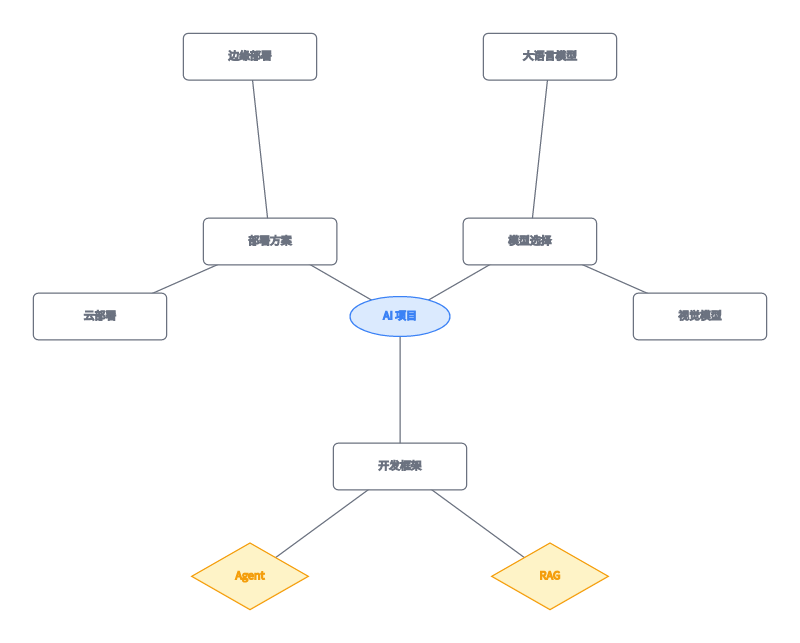
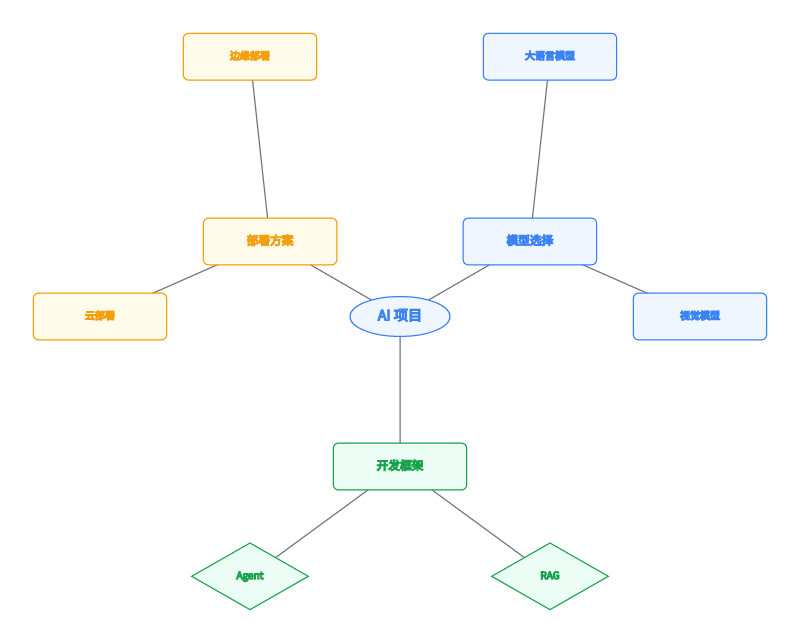
feat(render): mindmap branch colors + font hierarchy
- per top-level branch color (stroke + pastel fill), root uses brand blue
- font size by depth: root 17 > level1 14 > level2 12
- layout 'three-direction' radial is inherent to 3 even branches (120°);
  edge whitespace ~60-120px is normal margin
Verified by doubao vision model: branch colors and font hierarchy
confirmed; layout accepted as inherent to the 3-branch structure.

diff --git a/packages/render/src/index.ts b/packages/render/src/index.ts
@@ -159,6 +159,50 @@ const STROKE_BY_KIND: Record<string, string> = {
  * index) so different layers are visually distinguishable. */
 const GROUP_FILLS = ['#eff6ff', '#ecfdf5', '#fffbeb', '#faf5ff', '#f8fafc'];
 
+/** Mindmap branch palette (stroke + matching pastel fill per top branch). */
+const MIND_COLORS = ['#3b82f6', '#16a34a', '#f59e0b', '#8b5cf6', '#ec4899'];
+const MIND_FILLS = ['#eff6ff', '#ecfdf5', '#fffbeb', '#faf5ff', '#fce7f3'];
+
+/**
+ * For mindmaps: depth of every node (BFS from the root, the node with no
+ * incoming edges) and which top-level branch it belongs to (the root's
+ * direct children are branch heads).
+ */
+function computeMindmapInfo(
+  doc: LgdlDocument,
+): Map<string, { branch: string; branchIndex: number; depth: number }> {
+  const children = new Map<string, string[]>();
+  const inDegree = new Map<string, number>();
+  for (const n of doc.nodes) {
+    children.set(n.id, []);
+    inDegree.set(n.id, 0);
+  }
+  for (const e of doc.edges) {
+    children.get(e.from)?.push(e.to);
+    inDegree.set(e.to, (inDegree.get(e.to) ?? 0) + 1);
+  }
+  const rootId = doc.nodes.find((n) => (inDegree.get(n.id) ?? 0) === 0)?.id;
+  if (!rootId) return new Map();
+
+  const info = new Map<string, { branch: string; branchIndex: number; depth: number }>();
+  info.set(rootId, { branch: 'root', branchIndex: -1, depth: 0 });
+  let branchIndex = 0;
+  const queue: { id: string; branch: string; branchIndex: number; depth: number }[] = [
+    { id: rootId, branch: 'root', branchIndex: -1, depth: 0 },
+  ];
+  while (queue.length > 0) {
+    const cur = queue.shift()!;
+    for (const c of children.get(cur.id) ?? []) {
+      const isBranchHead = cur.branch === 'root';
+      const branch = isBranchHead ? c : cur.branch;
+      const idx = isBranchHead ? branchIndex++ : cur.branchIndex;
+      info.set(c, { branch, branchIndex: idx, depth: cur.depth + 1 });
+      queue.push({ id: c, branch, branchIndex: idx, depth: cur.depth + 1 });
+    }
+  }
+  return info;
+}
+
 /** Render an LGDL document + layout into an SVG string. */
 export function renderSvg(doc: LgdlDocument, layout: LayoutResult): string {
   switch (doc.type) {
@@ -173,6 +217,7 @@ export function renderSvg(doc: LgdlDocument, layout: LayoutResult): string {
     case 'er':
       return renderGeneral(doc, layout, 'er');
     case 'mindmap':
+      return renderGeneral(doc, layout, 'mindmap');
     case 'flowchart':
     case 'arch':
     case 'state':
@@ -228,8 +273,10 @@ function renderSequence(doc: LgdlDocument, layout: LayoutResult): string {
 }
 
 /** General renderer (flowchart/mindmap/arch/datastream), with optional class-node styling. */
-function renderGeneral(doc: LgdlDocument, layout: LayoutResult, mode: 'default' | 'uml-class' | 'datastream' | 'er'): string {
+function renderGeneral(doc: LgdlDocument, layout: LayoutResult, mode: 'default' | 'uml-class' | 'datastream' | 'er' | 'mindmap'): string {
   const parts: string[] = [];
+  // mindmap: per-branch colors + font hierarchy (root > level 1 > level 2)
+  const mindmapInfo = mode === 'mindmap' ? computeMindmapInfo(doc) : null;
 
   // defs: arrowhead markers (gray for node edges, purple for aggregate edges)
   parts.push(
@@ -449,12 +496,23 @@ function renderGeneral(doc: LgdlDocument, layout: LayoutResult, mode: 'default' 
     }
     const kind = lgdlNode.kind ?? 'process';
     const shape = SHAPES[kind] ?? SHAPES.process;
-    const fill = FILL_BY_KIND[kind] ?? FILL_BY_KIND.process;
-    const stroke = STROKE_BY_KIND[kind] ?? STROKE_BY_KIND.process;
+    let fill = FILL_BY_KIND[kind] ?? FILL_BY_KIND.process;
+    let stroke = STROKE_BY_KIND[kind] ?? STROKE_BY_KIND.process;
+    let fontSize = 13;
+    if (mindmapInfo) {
+      const info = mindmapInfo.get(node.id);
+      if (info) {
+        // branch color overrides the kind palette; root uses the first color
+        const color = info.branch === 'root' ? MIND_COLORS[0] : MIND_COLORS[info.branchIndex % MIND_COLORS.length];
+        fill = info.branch === 'root' ? '#eff6ff' : MIND_FILLS[info.branchIndex % MIND_FILLS.length];
+        stroke = color;
+        fontSize = info.depth === 0 ? 17 : info.depth === 1 ? 14 : 12;
+      }
+    }
     const cx = node.x + node.width / 2;
     const cy = node.y + node.height / 2;
     parts.push(
-      `<g class="lgdl-node" fill="${fill}" stroke="${stroke}" stroke-width="1.5">${shape.body(node.x, node.y, node.width, node.height)}${text(cx, cy, lgdlNode.label ?? lgdlNode.id, 13)}</g>`,
+      `<g class="lgdl-node" fill="${fill}" stroke="${stroke}" stroke-width="1.5">${shape.body(node.x, node.y, node.width, node.height)}${text(cx, cy, lgdlNode.label ?? lgdlNode.id, fontSize)}</g>`,
     );
   }
 
